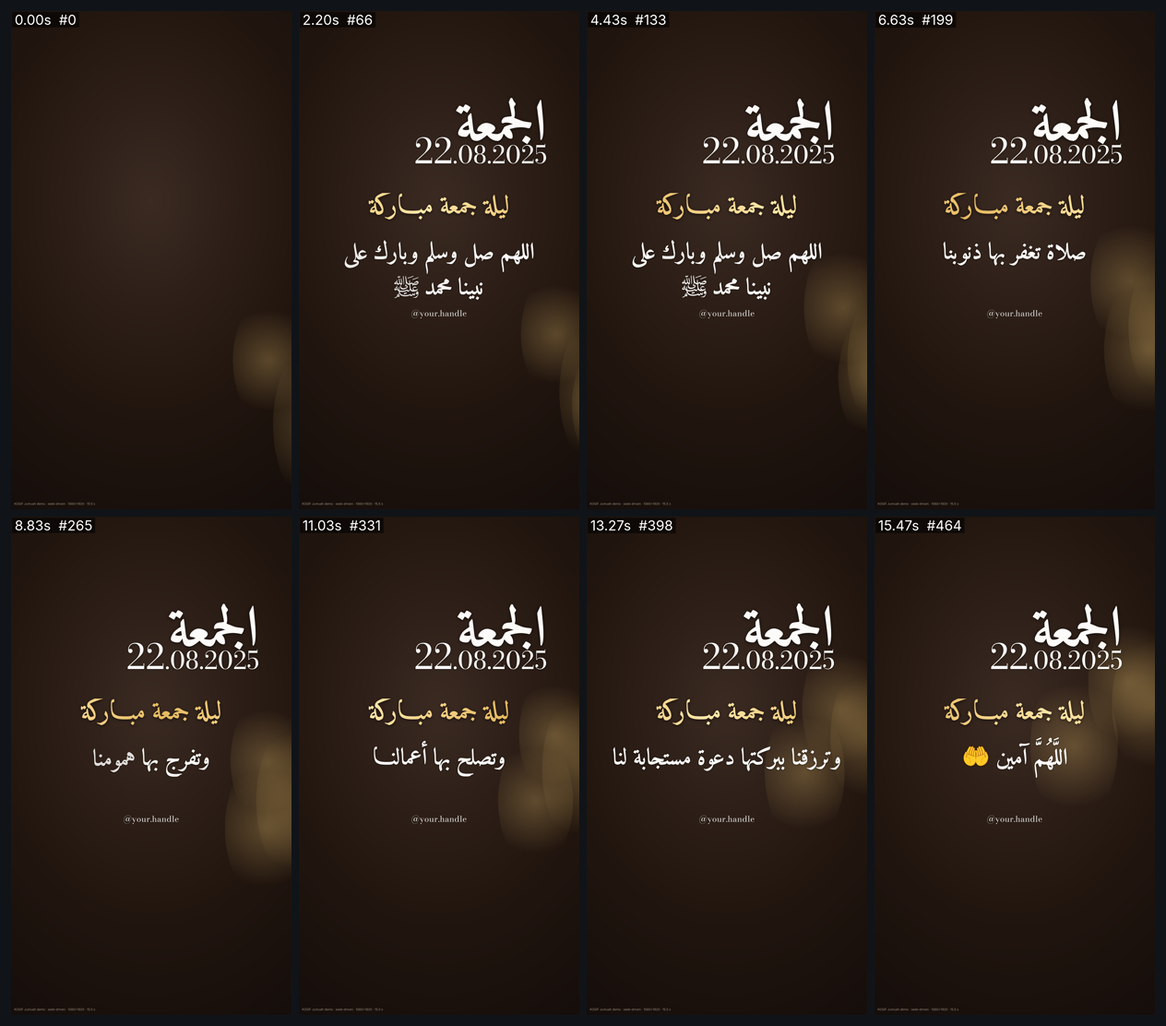
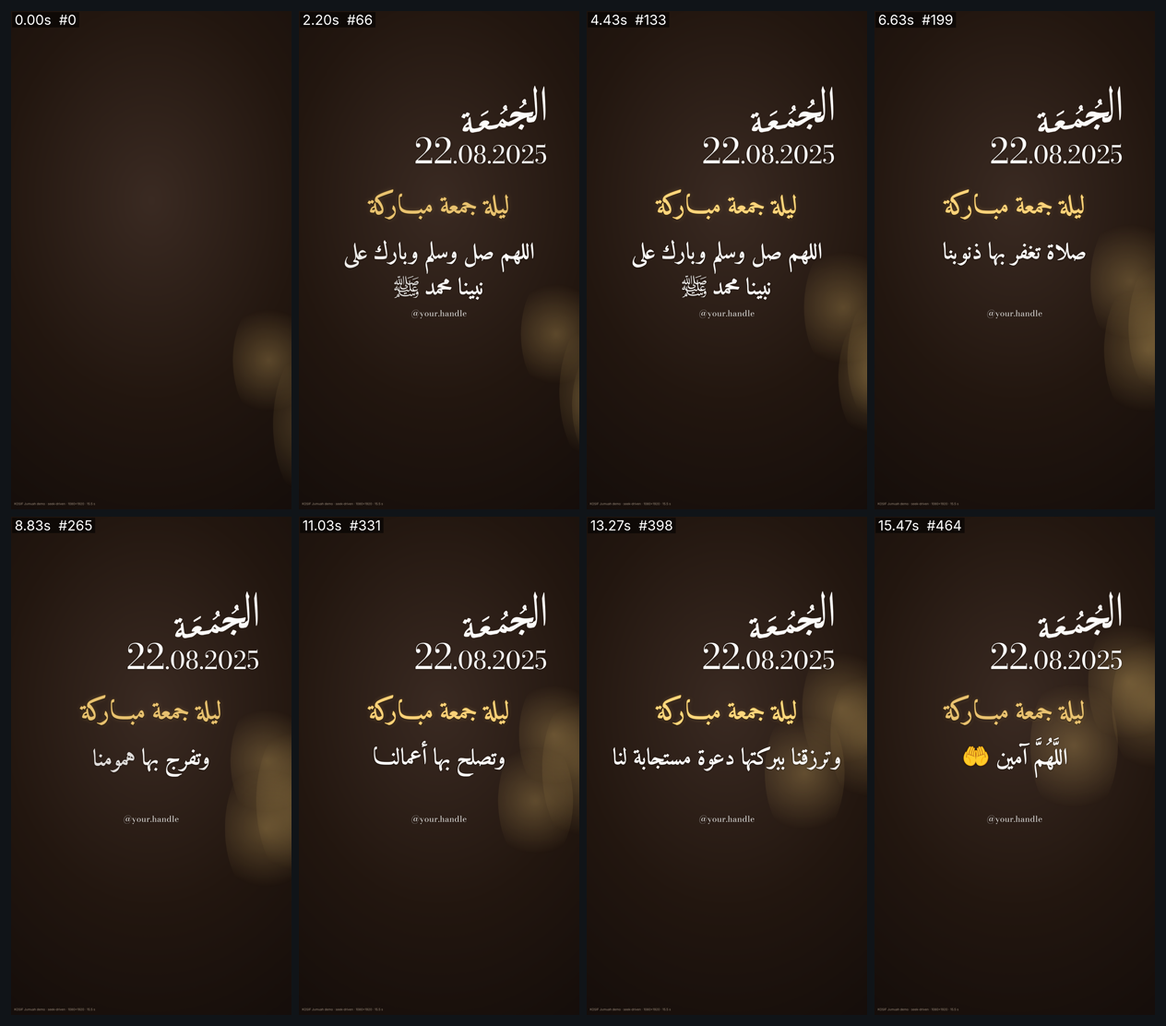
Compose the الجمعة title as SVG lettering and give the demo the reference's outlined weight
The reference title is bespoke Thuluth lettering; seventeen open calligraphic
faces and the GPL Arabeyes set were rendered against it and none has its
structure. demo/compose_title.py now builds original lettering from Amiri Bold
outlines (alef and lam stretched ×1.6, ج scaled ×1.3 about its join, kashida
after م and ع, the connected لجمعة group sheared by tan 0.18 so the baseline
cascades left while stems stay vertical, vowel marks placed by hand) and
writes demo/title-aljumuah.svg; the demo inlines it and draws it on stroke by
stroke. Gold and white text get the reference's dark outline. README records
the search, the composition parameters and the two exact-match paths
(calligrapher SVG or a licensed Thuluth font via --font). Tests cover the
composed title and the id separation from the #title layer.

Claude-Session: https://claude.ai/code/session_011HrcdFrvP96QFNs6uU87Pa

diff --git a/fonts/kosif-jumuah/demo/jumuah.html b/fonts/kosif-jumuah/demo/jumuah.html
@@ -12,13 +12,14 @@
   #stage { position: relative; width: 100vw; height: 100vh; overflow: hidden; font-family: "KOSIF Jumuah", "Noto Color Emoji", serif; color: var(--ink);
            background: radial-gradient(120% 90% at 50% 38%, #3a2a22 0%, #22160f 45%, #0e0908 100%); }
   .bokeh { position: absolute; border-radius: 50%; background: radial-gradient(circle, rgba(245,204,118,.28) 0%, rgba(245,204,118,0) 70%); will-change: transform; }
-  .layer { position: absolute; white-space: nowrap; text-shadow: 0 .012em .06em rgba(0,0,0,.55); }
-  #title { right: 11.7%; top: 17.5%; font-weight: 700; line-height: 1; transform-origin: 100% 60%; }
+  .layer { position: absolute; white-space: nowrap; text-shadow: 0 .012em .06em rgba(0,0,0,.55); -webkit-text-stroke: .012em rgba(20,10,5,.55); paint-order: stroke fill; }
+  #title { right: 11.7%; top: 14.8%; transform-origin: 100% 60%; -webkit-text-stroke: 0; line-height: 0; }
+  #title path { stroke: currentColor; stroke-linejoin: round; stroke-linecap: round; fill: currentColor; }
   #date  { right: 11.5%; top: 25.4%; font-weight: 400; direction: ltr; line-height: 1; letter-spacing: .01em; }
   #date .big { font-size: 1.42em; vertical-align: baseline; display: inline-block; }
   #gold  { left: 50%; top: 36.5%; transform: translateX(-50%); font-weight: 700; color: var(--gold); line-height: 1.1;
-           background: linear-gradient(100deg, #e4b85e 0%, #ffe6a8 50%, #e4b85e 100%); background-size: 200% 100%; -webkit-background-clip: text; background-clip: text; -webkit-text-fill-color: transparent;
-           text-shadow: none; filter: drop-shadow(0 3px 6px rgba(0,0,0,.55)); }
+           -webkit-text-stroke: .022em #6b4a14; paint-order: stroke fill;
+           text-shadow: 0 .02em .05em rgba(0,0,0,.6), 0 0 .18em rgba(245,204,118,.25); }
   #body  { left: 0; right: 0; top: 45%; text-align: center; font-weight: 700; line-height: 1.55; }
   #body .line { position: absolute; left: 0; right: 0; }
   #body .inner { display: inline-block; white-space: nowrap; }
@@ -30,7 +31,23 @@
 <body>
 <div id="stage">
   <div id="bokeh"></div>
-  <div id="title" class="layer">الجمعة</div>
+  <div id="title" class="layer" aria-label="الجمعة"><!-- title-svg:start (generated by compose_title.py; regenerate with demo/compose_title.py) -->
+<svg id="titlesvg" style="display:block;overflow:visible" xmlns="http://www.w3.org/2000/svg" viewBox="0 0 2888 1647" role="img" aria-label="الجمعة">
+<g id="lettering" transform="translate(2904.2,1193.6) scale(1,-1)" fill="currentColor">
+<path id="g-alef" d="M-118.0 1107.2Q-98.0 1176.0 -92.0 1075.2L-68.0 684.8000000000001Q-38.0 160.0 -82.0 24.0Q-92.0 -4.800000000000001 -101.0 0.0Q-111.0 4.800000000000001 -110.0 76.80000000000001Q-109.0 137.6 -118.0 277.6Q-127.0 417.6 -145.0 633.6L-166.0 899.2Q-169.0 932.8000000000001 -160.0 964.8000000000001Z"/>
+<path id="g-lam" d="M-367.0 900.6Q-327.0 435.8 -337.0 258.0Q-353.0 -10.48 -452.0 -55.5Q-477.0 -66.4 -480.0 -10.939999999999998Q-481.0 6.480000000000004 -481.5 27.990000000000002Q-482.0 49.5 -481.0 75.28Q-479.0 126.84000000000003 -452.0 136.5Q-396.0 156.18000000000004 -381.0 203.68Q-382.0 222.70000000000002 -395.5 395.47Q-409.0 568.24 -437.0 894.4000000000001Q-440.0 924.26 -442.5 943.81Q-445.0 963.36 -447.0 974.2Q-457.0 1010.8 -446.0 1047.98L-421.0 1132.48Q-407.0 1181.3999999999999 -392.0 1116.9Q-384.0 1086.3400000000001 -373.5 1061.0300000000002Q-363.0 1035.72 -347.0 1017.8000000000002Q-326.0 994.3800000000001 -343.0 956.12Z"/>
+<path id="g-jeem" d="M-1229.4 117.168Q-1194.3 263.88599999999997 -1059.1 288.222Q-1027.9 293.83799999999997 -979.8000000000001 287.546Q-931.7 281.254 -868.0 261.52000000000004Q-836.8 252.836 -795.1999999999999 248.624Q-753.5999999999999 244.41199999999998 -700.3 246.20600000000002Q-647.0 248.0 -595.0 256.06Q-543.0 264.12 -492.29999999999995 278.44599999999997Q-449.4 291.36800000000005 -458.5 255.93L-487.1 154.582Q-494.9 131.07799999999997 -523.5 127.23000000000002Q-549.5 125.14999999999998 -571.5999999999999 122.47199999999998Q-593.6999999999999 119.79399999999998 -613.1999999999999 117.58399999999995Q-630.1 66.44199999999998 -450.69999999999993 102.63400000000001Q-375.29999999999995 117.50599999999997 -407.79999999999995 -0.14400000000000546Q-420.79999999999995 -41.48400000000001 -449.4 -50.53200000000001Q-554.6999999999999 -82.48600000000002 -621.0 -71.02000000000001Q-710.6999999999999 -54.66600000000001 -669.1 103.62200000000001Q-775.7 74.03399999999999 -865.4 24.087999999999994Q-910.9 -1.0020000000000095 -963.55 -33.229000000000006Q-1016.2 -65.456 -1074.7 -105.88600000000001Q-1193.0 -185.68 -1245.0 -193.74Q-1274.9 -199.122 -1289.2 -166.596Q-1303.5 -134.07 -1294.4 -93.432Q-1285.3 -52.794 -1247.6 -38.208Q-1137.1 1.181999999999988 -1059.1 47.72199999999998Q-1018.8 71.87599999999998 -987.5999999999999 88.54199999999997Q-956.4 105.20799999999997 -931.7 116.154Q-1115.0 144.26 -1187.8 93.45600000000002Q-1212.5 76.00999999999999 -1224.2 79.10400000000001Q-1237.2 81.964 -1229.4 117.168ZM-892.6999999999999 -149.82599999999994Q-884.8999999999999 -138.02199999999993 -870.5999999999999 -139.34799999999993Q-844.5999999999999 -143.76799999999994 -820.55 -153.73899999999995Q-796.4999999999999 -163.70999999999995 -775.6999999999999 -178.16599999999994Q-765.3 -186.69399999999996 -771.8 -200.86399999999995L-834.1999999999999 -310.89599999999996Q-843.3 -325.53399999999993 -857.5999999999999 -317.70799999999997Q-870.5999999999999 -309.64799999999997 -951.1999999999999 -276.0559999999999Q-965.4999999999999 -269.53 -956.3999999999999 -254.89199999999994Z"/>
+<path id="g-meem" d="M-1490.0 44.660000000000025Q-1474.0 53.54000000000002 -1464.0 42.34000000000003Q-1428.0 -3.1799999999999784 -1372.0 -39.099999999999994Q-1316.0 -74.01999999999998 -1244.0 -69.06Q-1212.0 -66.29999999999998 -1210.0 -102.94Q-1210.0 -152.94 -1220.0 -168.73999999999998Q-1231.0 -186.71999999999997 -1244.0 -189.06Q-1308.0 -200.57999999999998 -1373.0 -173.27999999999997Q-1378.0 -209.17999999999998 -1381.0 -213.71999999999997Q-1396.0 -237.42 -1416.0 -241.01999999999998Q-1527.0 -252.0 -1605.0 -180.04Q-1656.0 -260.21999999999997 -1708.0 -272.58Q-1729.0 -276.36 -1737.0 -250.79999999999998Q-1750.0 -201.14 -1734.0 -174.26Q-1722.0 -157.09999999999997 -1708.0 -152.57999999999998Q-1622.0 -134.09999999999997 -1606.0 -95.21999999999997Q-1558.0 7.420000000000016 -1490.0 44.660000000000025ZM-1489.0 -42.15999999999997Q-1491.0 -39.51999999999998 -1496.0 -41.41999999999999Q-1526.0 -53.81999999999999 -1539.0 -74.16Q-1544.0 -82.05999999999997 -1538.0 -84.97999999999999Q-1520.0 -96.73999999999998 -1498.5 -104.36999999999999Q-1477.0 -112.0 -1452.0 -115.5Q-1445.0 -116.23999999999998 -1443.5 -113.96999999999998Q-1442.0 -111.69999999999999 -1446.0 -108.41999999999999Q-1456.0 -96.21999999999997 -1467.0 -79.69999999999997Q-1478.0 -63.17999999999998 -1489.0 -42.15999999999997Z"/>
+<path id="g-kashida-meem-4" d="M-1893.0 -305.88Q-1912.0 -309.29999999999995 -1920.0 -284.73999999999995L-1933.0 -243.07999999999998Q-1942.0 -195.7 -1893.0 -186.88L-1707.0 -153.39999999999998Q-1666.0 -146.01999999999998 -1666.0 -181.01999999999998Q-1666.0 -185.01999999999998 -1666.5 -188.60999999999999Q-1667.0 -192.2 -1668.0 -195.38L-1681.0 -241.71999999999997Q-1689.0 -269.15999999999997 -1707.0 -272.4Z"/>
+<path id="g-ain" d="M-1893.0000000000002 -180.63000000000002Q-1853.1000000000001 -173.44800000000004 -1846.8000000000002 -204.86400000000003Q-1845.7500000000002 -209.925 -1845.2250000000004 -215.6055Q-1844.7000000000003 -221.28600000000003 -1845.7500000000002 -226.72500000000002Q-1857.3000000000002 -300.20400000000006 -1891.9500000000003 -306.44100000000003Q-1999.0500000000002 -325.71900000000005 -2088.3 -234.68400000000003Q-2209.05 -363.519 -2277.3 -375.80400000000003Q-2315.1000000000004 -382.60800000000006 -2324.55 -331.809Q-2334.0 -281.01000000000005 -2300.4 -259.21200000000005Q-2287.8 -251.69400000000002 -2277.3 -249.80400000000003Q-2211.15 -236.84700000000004 -2163.9 -199.99200000000002Q-2183.8500000000004 -187.83300000000003 -2251.05 -190.47900000000004Q-2273.1000000000004 -191.29800000000003 -2268.9 -164.29200000000003Q-2260.5 -119.73000000000002 -2209.05 -69.519Q-2110.3500000000004 23.84699999999998 -1988.5500000000002 -23.528999999999996Q-1927.65 -48.266999999999996 -1937.1000000000001 -91.96800000000002Q-1946.5500000000002 -132.51900000000003 -2009.5500000000002 -180.60900000000004Q-1992.7500000000002 -188.08500000000004 -1963.3500000000004 -187.51800000000003Q-1933.9500000000003 -186.95100000000002 -1893.0000000000002 -180.63000000000002Z"/>
+<path id="g-kashida-ain-6" d="M-2462.3 -408.354Q-2481.3 -411.774 -2489.3 -387.214L-2502.3 -345.55400000000003Q-2511.3 -298.174 -2462.3 -289.354L-2276.3 -255.87400000000002Q-2235.3 -248.49400000000003 -2235.3 -283.494Q-2235.3 -287.494 -2235.8 -291.084Q-2236.3 -294.674 -2237.3 -297.854L-2250.3 -344.194Q-2258.3 -371.634 -2276.3 -374.874Z"/>
+<path id="g-taa" d="M-2594.3 93.28599999999994Q-2569.0 130.84000000000003 -2563.5 69.13L-2531.6000000000004 -189.12800000000004Q-2519.5 -289.25000000000006 -2462.3 -277.85400000000004Q-2435.9 -273.1020000000001 -2426.0 -295.52000000000004Q-2416.1000000000004 -320.13800000000003 -2428.2000000000003 -363.0160000000001Q-2440.3 -405.89400000000006 -2462.3 -409.85400000000004Q-2530.5 -422.13000000000005 -2559.1000000000004 -392.0780000000001Q-2586.6000000000004 -362.92800000000005 -2598.7000000000003 -279.30600000000004Q-2640.5000000000005 -349.5300000000001 -2657.0000000000005 -360.20000000000005Q-2672.4 -370.672 -2713.1000000000004 -374.6980000000001Q-2765.9 -380.90200000000004 -2803.3 -363.4340000000001Q-2827.5000000000005 -352.3900000000001 -2824.2000000000003 -319.8960000000001Q-2820.9 -287.40200000000004 -2800.0000000000005 -245.14000000000004Q-2789.0000000000005 -223.36000000000007 -2780.2000000000003 -207.47600000000006Q-2771.4 -191.59200000000004 -2764.8 -182.70400000000006Q-2712.0000000000005 -117.10000000000002 -2631.7000000000003 -57.54600000000005Q-2640.5000000000005 27.769999999999982 -2627.3 46.64599999999996ZM-2621.8 -134.96400000000006Q-2705.4 -176.41200000000003 -2736.2000000000003 -225.95600000000005Q-2740.6000000000004 -233.34800000000004 -2732.9 -236.36200000000005Q-2677.9 -249.56200000000004 -2609.7000000000003 -218.58600000000007Q-2611.9 -201.38200000000006 -2615.2 -180.52600000000007Q-2618.5 -159.67000000000007 -2621.8 -134.96400000000006ZM-2693.3000000000006 249.26600000000008Q-2686.7000000000003 259.2540000000001 -2674.6000000000004 258.13200000000006Q-2652.6000000000004 254.39200000000005 -2631.7000000000007 246.05400000000006Q-2610.8000000000006 237.71600000000007 -2593.2000000000003 225.48400000000004Q-2584.4000000000005 218.26800000000003 -2589.9000000000005 206.27800000000008L-2642.7000000000003 113.17400000000005Q-2651.5000000000005 99.49000000000005 -2662.5000000000005 107.41000000000005Q-2666.9000000000005 111.01800000000006 -2681.7500000000005 117.69500000000005Q-2696.6000000000004 124.37200000000004 -2720.8000000000006 134.31600000000006L-2757.1000000000004 68.38200000000005Q-2764.8000000000006 55.996000000000045 -2776.9000000000005 62.618000000000045Q-2782.4000000000005 66.02800000000005 -2802.7500000000005 74.46500000000005Q-2823.1000000000004 82.90200000000004 -2857.2000000000003 97.66400000000004Q-2869.3000000000006 102.08600000000006 -2860.5000000000005 115.77000000000005L-2807.7000000000003 204.47400000000005Q-2801.1000000000004 214.46200000000005 -2789.0000000000005 213.3400000000001Q-2756.0000000000005 208.2800000000001 -2727.4000000000005 192.52800000000005Z"/>
+<path id="g-damma-jeem" d="M-751.1213244645248 707.3834971122693Q-730.2213244645249 710.2334971122692 -716.9213244645248 688.3834971122693Q-692.2213244645249 649.4334971122693 -715.0213244645249 588.6334971122693Q-709.3213244645249 585.7834971122693 -705.5213244645249 583.8834971122693Q-701.7213244645249 581.9834971122693 -698.8713244645248 580.0834971122694Q-679.8713244645248 571.5334971122693 -689.3713244645248 551.5834971122694L-700.7713244645249 530.6834971122693Q-708.3713244645248 516.4334971122693 -719.7713244645249 520.2334971122693Q-733.0713244645249 524.9834971122693 -744.4713244645249 531.6334971122693Q-776.7713244645249 489.83349711226936 -813.3463244645249 458.0084971122693Q-849.9213244645248 426.18349711226927 -891.7213244645249 405.2834971122693Q-917.3713244645248 393.8834971122693 -926.8713244645248 411.93349711226927Q-937.3213244645249 430.93349711226927 -909.7713244645248 445.18349711226927Q-829.0213244645248 492.68349711226927 -781.5213244645249 551.5834971122694Q-847.0713244645249 588.6334971122693 -829.9713244645249 630.4334971122693Q-800.5213244645248 698.8334971122694 -751.1213244645248 707.3834971122693ZM-756.8213244645249 608.5834971122694Q-756.8213244645249 625.6834971122693 -762.5213244645249 631.3834971122693Q-765.3713244645248 634.2334971122693 -768.6963244645249 636.1334971122694Q-772.0213244645249 638.0334971122694 -774.8713244645248 639.9334971122693Q-781.5213244645249 643.7334971122692 -788.1713244645248 632.3334971122694Q-783.4213244645248 621.8834971122693 -756.8213244645249 608.5834971122694Z"/>
+<path id="g-damma-meem" d="M-1389.5602514367818 505.0999151779977Q-1368.660251436782 507.9499151779976 -1355.3602514367817 486.0999151779977Q-1330.660251436782 447.1499151779976 -1353.4602514367818 386.3499151779977Q-1347.7602514367818 383.49991517799765 -1343.9602514367818 381.5999151779977Q-1340.160251436782 379.6999151779977 -1337.3102514367818 377.7999151779977Q-1318.3102514367818 369.24991517799765 -1327.8102514367818 349.2999151779977L-1339.2102514367818 328.3999151779976Q-1346.8102514367818 314.1499151779976 -1358.2102514367818 317.9499151779977Q-1371.5102514367818 322.6999151779977 -1382.910251436782 329.3499151779977Q-1415.2102514367818 287.5499151779977 -1451.785251436782 255.72491517799767Q-1488.3602514367817 223.89991517799763 -1530.1602514367817 202.99991517799765Q-1555.8102514367818 191.59991517799767 -1565.3102514367818 209.64991517799763Q-1575.7602514367818 228.64991517799763 -1548.2102514367818 242.89991517799763Q-1467.4602514367818 290.3999151779976 -1419.9602514367818 349.2999151779977Q-1485.5102514367818 386.3499151779977 -1468.410251436782 428.1499151779976Q-1438.9602514367818 496.5499151779977 -1389.5602514367818 505.0999151779977ZM-1395.2602514367818 406.2999151779977Q-1395.2602514367818 423.3999151779976 -1400.9602514367818 429.0999151779977Q-1403.8102514367818 431.9499151779977 -1407.1352514367818 433.84991517799773Q-1410.4602514367818 435.74991517799776 -1413.3102514367818 437.6499151779976Q-1419.9602514367818 441.4499151779976 -1426.6102514367817 430.0499151779977Q-1421.8602514367817 419.5999151779977 -1395.2602514367818 406.2999151779977Z"/>
+<path id="g-fatha-ain" d="M-1991.4309451219515 318.6185165622202Q-1980.0309451219514 326.2185165622202 -1968.6309451219515 323.3685165622202Q-1959.1309451219515 320.51851656222027 -1964.8309451219516 300.5685165622202L-1973.3809451219515 270.16851656222025Q-1978.1309451219515 255.91851656222025 -1997.1309451219515 243.56851656222022L-2182.3809451219513 136.2185165622202Q-2189.0309451219514 132.41851656222025 -2194.7309451219517 132.41851656222025Q-2207.0809451219516 133.36851656222018 -2208.9809451219517 151.41851656222025V167.56851656222022Q-2207.0809451219516 182.76851656222027 -2189.0309451219514 195.11851656222018Z"/>
+</g>
+</svg>
+<!-- title-svg:end --></div>
   <div id="date" class="layer"><span class="big">22</span>.08.2025</div>
   <div id="gold" class="layer">ليلة جمعة مبـــاركة</div>
   <div id="body" class="layer"></div>
@@ -72,6 +89,9 @@
     bokeh.push({ el, x: rng() * 100, y: 55 + rng() * 45, dx: (rng() - .5) * 6, dy: -(2 + rng() * 4), phase: rng() * 6.28 });
   }
 
+  const titlePaths = [...document.querySelectorAll('#titlesvg path')];
+  titlePaths.forEach(p => { p.dataset.len = Math.ceil(p.getTotalLength()); });
+
   // body lines
   const body = document.getElementById('body');
   const scenes = SCENES.map(([start, end, lines]) => {
@@ -103,7 +123,11 @@
     return size;
   }
   function layout() {
-    fitWidth(document.getElementById('title'), FIT.title);
+    // the title is SVG lettering: 9.8 % of the stage height, width from its viewBox aspect
+    const tsvg = document.getElementById('titlesvg');
+    const vb = tsvg.viewBox.baseVal; const th = H() * 0.098;
+    tsvg.setAttribute('height', th); tsvg.setAttribute('width', th * vb.width / vb.height);
+    tsvg.style.height = th + 'px'; tsvg.style.width = (th * vb.width / vb.height) + 'px';
     fitWidth(document.getElementById('date'), FIT.date);
     fitWidth(document.getElementById('gold'), FIT.gold);
     // body size comes from the widest reference line, then applies to every scene
@@ -122,9 +146,19 @@
       b.el.style.transform = `translate(${x}vw, ${y}vh) scale(${s})`; });
     // title: enter 0–0.6 s, then breathe
     const title = document.getElementById('title');
-    const ti = easeOutCubic(clamp(t / 0.6, 0, 1));
-    title.style.opacity = ti;
-    title.style.transform = `scale(${0.96 + 0.04 * ti + 0.01 * Math.sin(2 * Math.PI * t / 6)})`;
+    title.style.opacity = 1;
+    title.style.transform = `scale(${1 + 0.01 * Math.sin(2 * Math.PI * t / 6)})`;
+    // draw the lettering on: strokes trace in over 1.1 s (staggered per glyph), fills follow
+    titlePaths.forEach((p, i) => {
+      const t0 = 0.08 * i;
+      const draw = easeOutCubic(clamp((t - t0) / 1.1, 0, 1));
+      const fill = easeOutCubic(clamp((t - t0 - 0.7) / 0.5, 0, 1));
+      p.style.strokeDasharray = p.dataset.len;
+      p.style.strokeDashoffset = (1 - draw) * p.dataset.len;
+      p.style.strokeWidth = (1 - fill) * 18 + 6;
+      p.style.fillOpacity = fill;
+      p.style.opacity = draw > 0 ? 1 : 0;
+    });
     // date: ".08.2025" first, the big 22 drops in
     const date = document.getElementById('date');
     const di = easeOutCubic(clamp((t - 0.2) / 0.6, 0, 1));
@@ -134,7 +168,7 @@
     const gold = document.getElementById('gold');
     const gi = easeOutCubic(clamp((t - 0.5) / 0.6, 0, 1));
     gold.style.opacity = gi;
-    gold.style.backgroundPosition = `${100 - ((t * 18) % 200)}% 0`;
+    gold.style.filter = `brightness(${1 + 0.06 * Math.sin(2 * Math.PI * t / 3.2)})`;
     gold.style.transform = `translateX(-50%) translateY(${(1 - gi) * 0.4}em)`;
     // body scenes
     scenes.forEach(s => {

diff --git a/fonts/kosif-jumuah/demo/compose_title.py b/fonts/kosif-jumuah/demo/compose_title.py
@@ -1,0 +1,136 @@
+#!/usr/bin/env python3
+"""Compose the «الجمعة» title as original SVG lettering from Amiri Bold outlines — تركيب عنوان «الجمعة».
+
+The reference title is a Thuluth composition: two tall verticals for «ال», then «جمعة» spread wide and
+cascading down to the left under its vowel marks. No open-licensed Thuluth face exists, so this script
+builds that structure from the OFL Amiri Bold glyphs: alef and lam are stretched vertically, kashida
+strokes widen the word, the connected «لجمعة» group is sheared so its baseline descends to the left while
+stems stay vertical, individual letters can be scaled about their joins, and the marks are placed by hand.
+The output is one <path> per glyph (same fill) so the demo can draw the title on stroke by stroke.
+
+  python3 compose_title.py [--font Amiri-Bold.ttf] [--out title-aljumuah.svg] [--set key=value ...] [--json]
+
+Tunable values live in PARAMS (font units, 1000/em, y up, right-to-left pen). Source glyphs
+© The Amiri Project Authors, SIL Open Font License 1.1; the composition is KOSIF's own.
+"""
+from __future__ import annotations
+
+import argparse
+import json
+import sys
+from pathlib import Path
+
+try:
+    from fontTools.pens.boundsPen import BoundsPen
+    from fontTools.pens.svgPathPen import SVGPathPen
+    from fontTools.pens.transformPen import TransformPen
+    from fontTools.ttLib import TTFont
+except ImportError:  # pragma: no cover
+    sys.exit("fontTools is required: pip install fonttools")
+
+HERE = Path(__file__).resolve().parent
+REPO = HERE.parents[2]
+DEFAULT_FONT = REPO / ".kosif-cache" / "fonts-src" / "amiri" / "Amiri-Bold.ttf"
+
+# shaped glyphs via presentation forms: alef isolated, lam initial, jeem medial, meem medial, ain medial, taa-marbuta final
+LETTERS = {"alef": 0xFE8D, "lam": 0xFEDF, "jeem": 0xFEA0, "meem": 0xFEE4, "ain": 0xFECC, "taa": 0xFE94, "kashida": 0x0640}
+MARKS = {"damma": 0x064F, "fatha": 0x064E}
+ORDER = ["alef", "lam", "jeem", "meem", "ain", "taa"]
+
+PARAMS = {
+    "alef_sy": 1.6, "lam_sy": 1.6,     # vertical stretch of the two stems (about the baseline)
+    "lam_gap": 60,                      # extra space between alef and lam
+    "shear": 0.18,                      # tan of the cascade angle for «لجمعة»: the baseline drops to the left, stems stay vertical
+    "kashida_meem": 1, "kashida_ain": 1,  # tatweel strokes inserted after these letters to widen the word
+    "kashida_sx": 1.0,                  # horizontal scale of each tatweel
+    "jeem_s": 1.3, "meem_s": 1.0, "ain_s": 1.05, "taa_s": 1.1,  # per-letter scale about the right join
+    "cascade_dy": 0,
+    "mark_scale": 0.95,
+    "marks": [("damma", "jeem", 40, 110), ("damma", "meem", 30, 150), ("fatha", "ain", 0, 140)],
+}
+
+
+def main(argv=None) -> int:
+    ap = argparse.ArgumentParser(description=__doc__, formatter_class=argparse.RawDescriptionHelpFormatter)
+    ap.add_argument("--font", default=str(DEFAULT_FONT))
+    ap.add_argument("--out", default=str(HERE / "title-aljumuah.svg"))
+    ap.add_argument("--json", action="store_true", help="print the viewBox and glyph boxes as JSON")
+    ap.add_argument("--set", action="append", default=[], help="override a PARAMS value, e.g. --set shear=0.2")
+    a = ap.parse_args(argv)
+    for kv in a.set:
+        k, v = kv.split("=", 1)
+        PARAMS[k] = float(v)
+    font = TTFont(a.font)
+    cmap, gs, hmtx = font.getBestCmap(), font.getGlyphSet(), font["hmtx"]
+    adv_of = lambda key: hmtx[cmap[LETTERS[key]]][0]
+
+    # 1. sequence with kashidas, laid right-to-left on a flat baseline; each item: (key, glyph key, scale)
+    seq = []
+    for key in ORDER:
+        s = PARAMS.get(f"{key}_s", 1.0)
+        seq.append((key, key, s))
+        for _ in range(int(PARAMS.get(f"kashida_{key}", 0))):
+            seq.append((f"kashida-{key}-{len(seq)}", "kashida", PARAMS["kashida_sx"]))
+    x = 0.0
+    placed = []  # (id, glyph key, left x, scale)
+    for ident, gkey, s in seq:
+        sx = s
+        sy = s if gkey != "kashida" else 1.0
+        x -= adv_of(gkey) * sx
+        placed.append((ident, gkey, x, sx, sy))
+        if gkey == "alef":
+            x -= PARAMS["lam_gap"]
+    anchor_x = next(p[2] for p in placed if p[0] == "lam") + adv_of("lam")  # lam's right edge: the cascade pivot
+    k = PARAMS["shear"]
+
+    # 2. outlines with transforms; TransformPen(TransformPen(pen, outer), inner): inner first, then outer
+    paths, boxes = [], {}
+    for ident, gkey, gx, sx, sy in placed:
+        if gkey == "alef":
+            inner = (1, 0, 0, PARAMS["alef_sy"], gx, 0); outer = (1, 0, 0, 1, 0, 0)
+        else:
+            if gkey == "lam":
+                inner = (1, 0, 0, PARAMS["lam_sy"], gx, 0)
+            else:
+                inner = (sx, 0, 0, sy, gx, PARAMS["cascade_dy"])
+            outer = (1, k, 0, 1, 0, -k * anchor_x)  # y' = y + k*(x - anchor): descends to the left
+        name = cmap[LETTERS[gkey]]
+        pen = SVGPathPen(gs); gs[name].draw(TransformPen(TransformPen(pen, outer), inner))
+        bp = BoundsPen(gs); gs[name].draw(TransformPen(TransformPen(bp, outer), inner))
+        paths.append((ident, pen.getCommands()))
+        if bp.bounds:
+            boxes[ident] = list(bp.bounds)
+
+    # 3. vowel marks above letters
+    for mark, over, mdx, mdy in PARAMS["marks"]:
+        if over not in boxes:
+            continue
+        b = boxes[over]
+        cx, top, s = (b[0] + b[2]) / 2 + mdx, b[3] + mdy, PARAMS["mark_scale"]
+        name = cmap[MARKS[mark]]
+        bp = BoundsPen(gs); gs[name].draw(bp); mb = bp.bounds or (0, 0, 0, 0)
+        t = (s, 0, 0, s, cx - (mb[0] + mb[2]) / 2 * s, top - mb[1] * s)
+        pen = SVGPathPen(gs); gs[name].draw(TransformPen(pen, t))
+        ident = f"{mark}-{over}"
+        paths.append((ident, pen.getCommands()))
+        boxes[ident] = [t[4] + mb[0] * s, t[5] + mb[1] * s, t[4] + mb[2] * s, t[5] + mb[3] * s]
+
+    # 4. SVG (y flipped), viewBox from the union of boxes
+    xs0, xs1 = min(b[0] for b in boxes.values()), max(b[2] for b in boxes.values())
+    ys0, ys1 = min(b[1] for b in boxes.values()), max(b[3] for b in boxes.values())
+    pad = 40
+    w, h = xs1 - xs0 + 2 * pad, ys1 - ys0 + 2 * pad
+    parts = [f'<svg xmlns="http://www.w3.org/2000/svg" viewBox="0 0 {w:.0f} {h:.0f}" role="img" aria-label="الجمعة">',
+             f'<!-- KOSIF composition of الجمعة from Amiri Bold glyphs (SIL OFL 1.1, © The Amiri Project Authors); params {json.dumps({k: v for k, v in PARAMS.items() if k != "marks"})} -->',
+             f'<g id="lettering" transform="translate({-xs0 + pad:.1f},{ys1 + pad:.1f}) scale(1,-1)" fill="currentColor">']
+    parts += [f'<path id="g-{ident}" d="{d}"/>' for ident, d in paths]
+    parts += ["</g>", "</svg>"]
+    Path(a.out).write_text("\n".join(parts) + "\n", encoding="utf-8")
+    if a.json:
+        print(json.dumps({"viewBox": [round(w), round(h)], "aspect": round(w / h, 2), "boxes": {k: [round(v) for v in b] for k, b in boxes.items()}}, indent=1))
+    print(f"wrote {a.out} ({w:.0f}×{h:.0f} units, aspect {w / h:.2f}, {len(paths)} paths)", file=sys.stderr)
+    return 0
+
+
+if __name__ == "__main__":
+    sys.exit(main())

diff --git a/tests/test_fonts.py b/tests/test_fonts.py
@@ -21,7 +21,7 @@ except ImportError:  # CI installs no third-party packages; coverage checks then
 
 class KitFilesTest(unittest.TestCase):
     def test_files_present(self):
-        for rel in ["build_font.py", "OFL.txt", "README.md", "demo/jumuah.html"] + [f"KOSIFJumuah-{s}.{ext}" for s in STYLES for ext in ("ttf", "woff2")]:
+        for rel in ["build_font.py", "OFL.txt", "README.md", "demo/jumuah.html", "demo/compose_title.py", "demo/title-aljumuah.svg", "demo/preview.png"] + [f"KOSIFJumuah-{s}.{ext}" for s in STYLES for ext in ("ttf", "woff2")]:
             with self.subTest(file=rel):
                 self.assertTrue((KIT / rel).exists(), rel)
 
@@ -48,6 +48,18 @@ class KitFilesTest(unittest.TestCase):
             with self.subTest(url=url):
                 self.assertTrue((KIT / "demo" / url).resolve().exists(), url)
         self.assertTrue(ARABIC.search(html))
+
+    def test_composed_title_is_inlined_and_well_formed(self):
+        svg = (KIT / "demo" / "title-aljumuah.svg").read_text(encoding="utf-8")
+        self.assertIn('viewBox="0 0 ', svg)
+        self.assertGreaterEqual(svg.count("<path "), 9, "alef, lam, jeem, meem, ain, taa, kashidas and three marks")
+        self.assertIn('id="lettering"', svg)
+        self.assertNotIn('id="title"', svg, "must not collide with the demo's #title layer")
+        self.assertIn("Amiri", svg, "the OFL source must be credited in the file")
+        html = (KIT / "demo" / "jumuah.html").read_text(encoding="utf-8")
+        self.assertIn("title-svg:start", html)
+        self.assertIn('id="titlesvg"', html)
+        self.assertEqual(html.count('id="title"'), 1)
 
 
 @unittest.skipUnless(TTFont, "fontTools not installed (pip install fonttools)")

diff --git a/fonts/kosif-jumuah/README.md b/fonts/kosif-jumuah/README.md
@@ -11,6 +11,7 @@ A matched typeface for the Friday-greeting typography observed in a vertical ref
 | `OFL.txt` | the license with both upstream notices |
 | `build_font.py` | reproducible build (download → subset → instance → scale → merge → rename) |
 | `demo/jumuah.html` | 1080×1920, 15.5 s, `window.__kosif.seek(t)` demo of the whole type system |
+| `demo/compose_title.py` → `demo/title-aljumuah.svg` | the «الجمعة» title as original SVG lettering composed from Amiri Bold outlines (tall stems, kashida, sheared cascade, hand-placed marks); the demo draws it on stroke by stroke |
 | `demo/preview.png` | 8-frame contact sheet rendered by `tools/render_html.cjs --preview` |
 
 ## 1. What was observed — ما لوحظ
@@ -19,7 +20,7 @@ Reference: 576×1024, 30 fps, 15.47 s, one hard cut at 1.7 s; measured on frames
 
 | role | text | observed | decision |
 |---|---|---|---|
-| title | «الجُمُعَة» | white, right edge at 0.88 W, ink 0.32 W × 0.05 H, centre y 0.215 H, Thuluth-style composition with diacritics | *assumed* hand-set Thuluth lettering; no open-licensed Thuluth exists, so the kit uses KOSIF Jumuah Bold (Amiri's stacked «الجمعة») as the stand-in |
+| title | «الجُمُعَة» | white, right edge at 0.88 W, ink 0.32 W × 0.05 H, centre y 0.215 H, Thuluth-style composition with diacritics | *assumed* hand-set Thuluth lettering; no open-licensed Thuluth exists, so the kit composes its own lettering from Amiri Bold outlines (`demo/compose_title.py`) — same gesture (tall «ال», cascading «جمعة», marks), Naskh pen |
 | date | «22.08.2025» | Didone figures with hairline serifs and ball terminals, "22" ≈ 1.4× the rest, right edge 0.885 W, centre y 0.28 H, ink 0.47 W × 0.033 H | Bodoni Moda, weight 400, optical size 11 (hairlines visible at phone size) |
 | gold line | «ليلة جمعة مبـــاركة» | #f5cc76, centred, 0.50 W wide, centre y 0.385 H, three tatweels in «مباركة», stacked «جم» | Amiri Bold |
 | body | «اللهم صل وسلم وبارك على / نبينا محمد ﷺ» … | #fcfbf9, centred, widest line 0.68 W, centre y 0.48–0.51 H, stacked «محمد», three-row ﷺ, soft dark shadow | Amiri Bold (the video's weight sits between Regular and Bold once compression blur is accounted for) |
@@ -34,6 +35,7 @@ Reference: 576×1024, 30 fps, 15.47 s, one hard cut at 1.7 s; measured on frames
 3. **Fingerprints.** Size-independent ratios between line widths and heights were compared with the video; they are only a tie-breaker here because the video elongates several words with kashida.
 4. **Signatures.** Side-by-side sheets settled it: the stacked «جم» in «جمعة», the stacked «محمد», the three-row ﷺ and the shapes of ك and ة appear only in Amiri among the candidates; Scheherazade and Noto set those words flat. For the date, Bodoni Moda's ball-terminal "2" and vertical-stress "0" match; Playfair's figures are old-style and Times is too plain.
 5. **Verification.** The merged font was rendered again over the same lines and compared with the video crops; the demo page was rendered to a contact sheet with the repository's own renderer.
+6. **The title.** Seventeen open display and calligraphic faces (Aref Ruqaa and Ruqaa Ink, Gulzar, Noto Nastaliq, Mirza, Katibeh, Rakkas, Lalezar, Vibes, Blaka, Ruwudu, Qahiri, Alkalami, Lateef, Scheherazade, Amiri, Amiri Quran) and the GPL Arabeyes "Khotot" set (ae_Tholoth, ae_Rasheeq, ae_Nice, ae_Khalid, ae_Mashq, …) were rendered against the title crop; none has the Thuluth structure (two tall verticals, a sweeping «ج», stacked «معة»). Silhouette overlap peaked at 0.23 IoU, which is noise. The composed lettering is therefore built, not matched: `compose_title.py` stretches alef and lam ×1.6, scales «ج» ×1.3 about its join, inserts kashida after «م» and «ع», shears the connected «لجمعة» group by tan 0.18 so its baseline descends to the left while stems stay vertical, and places the vowel marks by hand. Parameters are tunable with `--set key=value`.
 
 **بالعربية:** قياس الصناديق من الإطارات، ثم عرض السطور نفسها باثني عشر خطًا عربيًا وستة لاتينية عبر Chromium، ثم مقارنة النِّسب والبصمات البصرية: المركّبات المتراكبة في «جمعة» و«محمد» ورمز ﷺ لا تظهر إلا في أميري، وأرقام Bodoni Moda تطابق التاريخ. ثم أُعيد العرض بالخط المدمج للتحقق.
 
@@ -44,6 +46,8 @@ pip install fonttools brotli
 python3 fonts/kosif-jumuah/build_font.py            # downloads the sources into .kosif-cache/fonts-src, then builds
 python3 fonts/kosif-jumuah/build_font.py --no-download --src path/to/sources
 ```
+
+The title lettering is regenerated with `python3 fonts/kosif-jumuah/demo/compose_title.py` (writes `demo/title-aljumuah.svg`; the demo inlines it between the `title-svg` markers).
 
 Steps performed by the script: fetch Amiri and Bodoni Moda from the google/fonts repository → subset Amiri to the Arabic blocks (U+0600–06FF, 0750–077F, 08A0–08FF, FB50–FDFF, FE70–FEFF, joiners) keeping all OpenType features → instance Bodoni Moda at wght 400/opsz 11 (Regular) and wght 600/opsz 11 (Bold), subset to Basic Latin, Latin-1 and general punctuation without layout tables → scale the Latin master to 1000 UPM and copy the Arabic vertical metrics → merge with `fontTools.merge` → write the name table (family *KOSIF Jumuah*, both copyrights, OFL 1.1) → save TTF and WOFF2 → write `OFL.txt`.
 
@@ -78,9 +82,9 @@ KOSIF Jumuah is licensed under the SIL Open Font License 1.1 (`OFL.txt`). It is 
 
 ## 6. Limits — الحدود
 
-- The calligraphic title is a Thuluth composition that no open-licensed font reproduces; commission a calligrapher or license a Thuluth face for an exact match, and keep the kit's Bold as the consistent fallback.
+- The calligraphic title is a Thuluth composition that no open-licensed font reproduces (seventeen open faces and the GPL Arabeyes set were tested). The kit's composed SVG keeps the gesture with a Naskh pen. For an exact match: (a) a calligrapher draws «الجمعة» once as SVG and it replaces `title-aljumuah.svg`, or (b) you hold a licensed Thuluth font — point `compose_title.py --font` at it (or set it in CSS for `#title`) and keep that font outside the repository if its license is not OFL-compatible.
 - The reference's white text weight is read through compression blur; if a side-by-side at full size looks heavy, use Regular with the same shadow.
 - Latin letters in the kit are Didone (Bodoni Moda) to match the date; the reference's small handle is a Times-like serif.
 - Emoji (🤲 in the last line) come from the platform's colour emoji font, not from this family.
 
-**بالعربية:** عنوان الثلث لا يعيده خط مفتوح؛ وزن النص الأبيض مقدَّر عبر ضبابية الضغط؛ الحروف اللاتينية ديدون لمطابقة التاريخ؛ والرموز التعبيرية من خط النظام.
+**بالعربية:** عنوان الثلث لا يعيده خط مفتوح (جُرِّب 17 خطًا مفتوحًا ومجموعة Arabeyes)؛ العنوان المركّب يحفظ الإيماءة بقلم النسخ، وللمطابقة الحرفية يرسمه خطاط كملف SVG أو يُستخدم خط ثلث مرخّص عبر `compose_title.py --font`؛ وزن النص الأبيض مقدَّر عبر ضبابية الضغط؛ الحروف اللاتينية ديدون لمطابقة التاريخ؛ والرموز التعبيرية من خط النظام.
